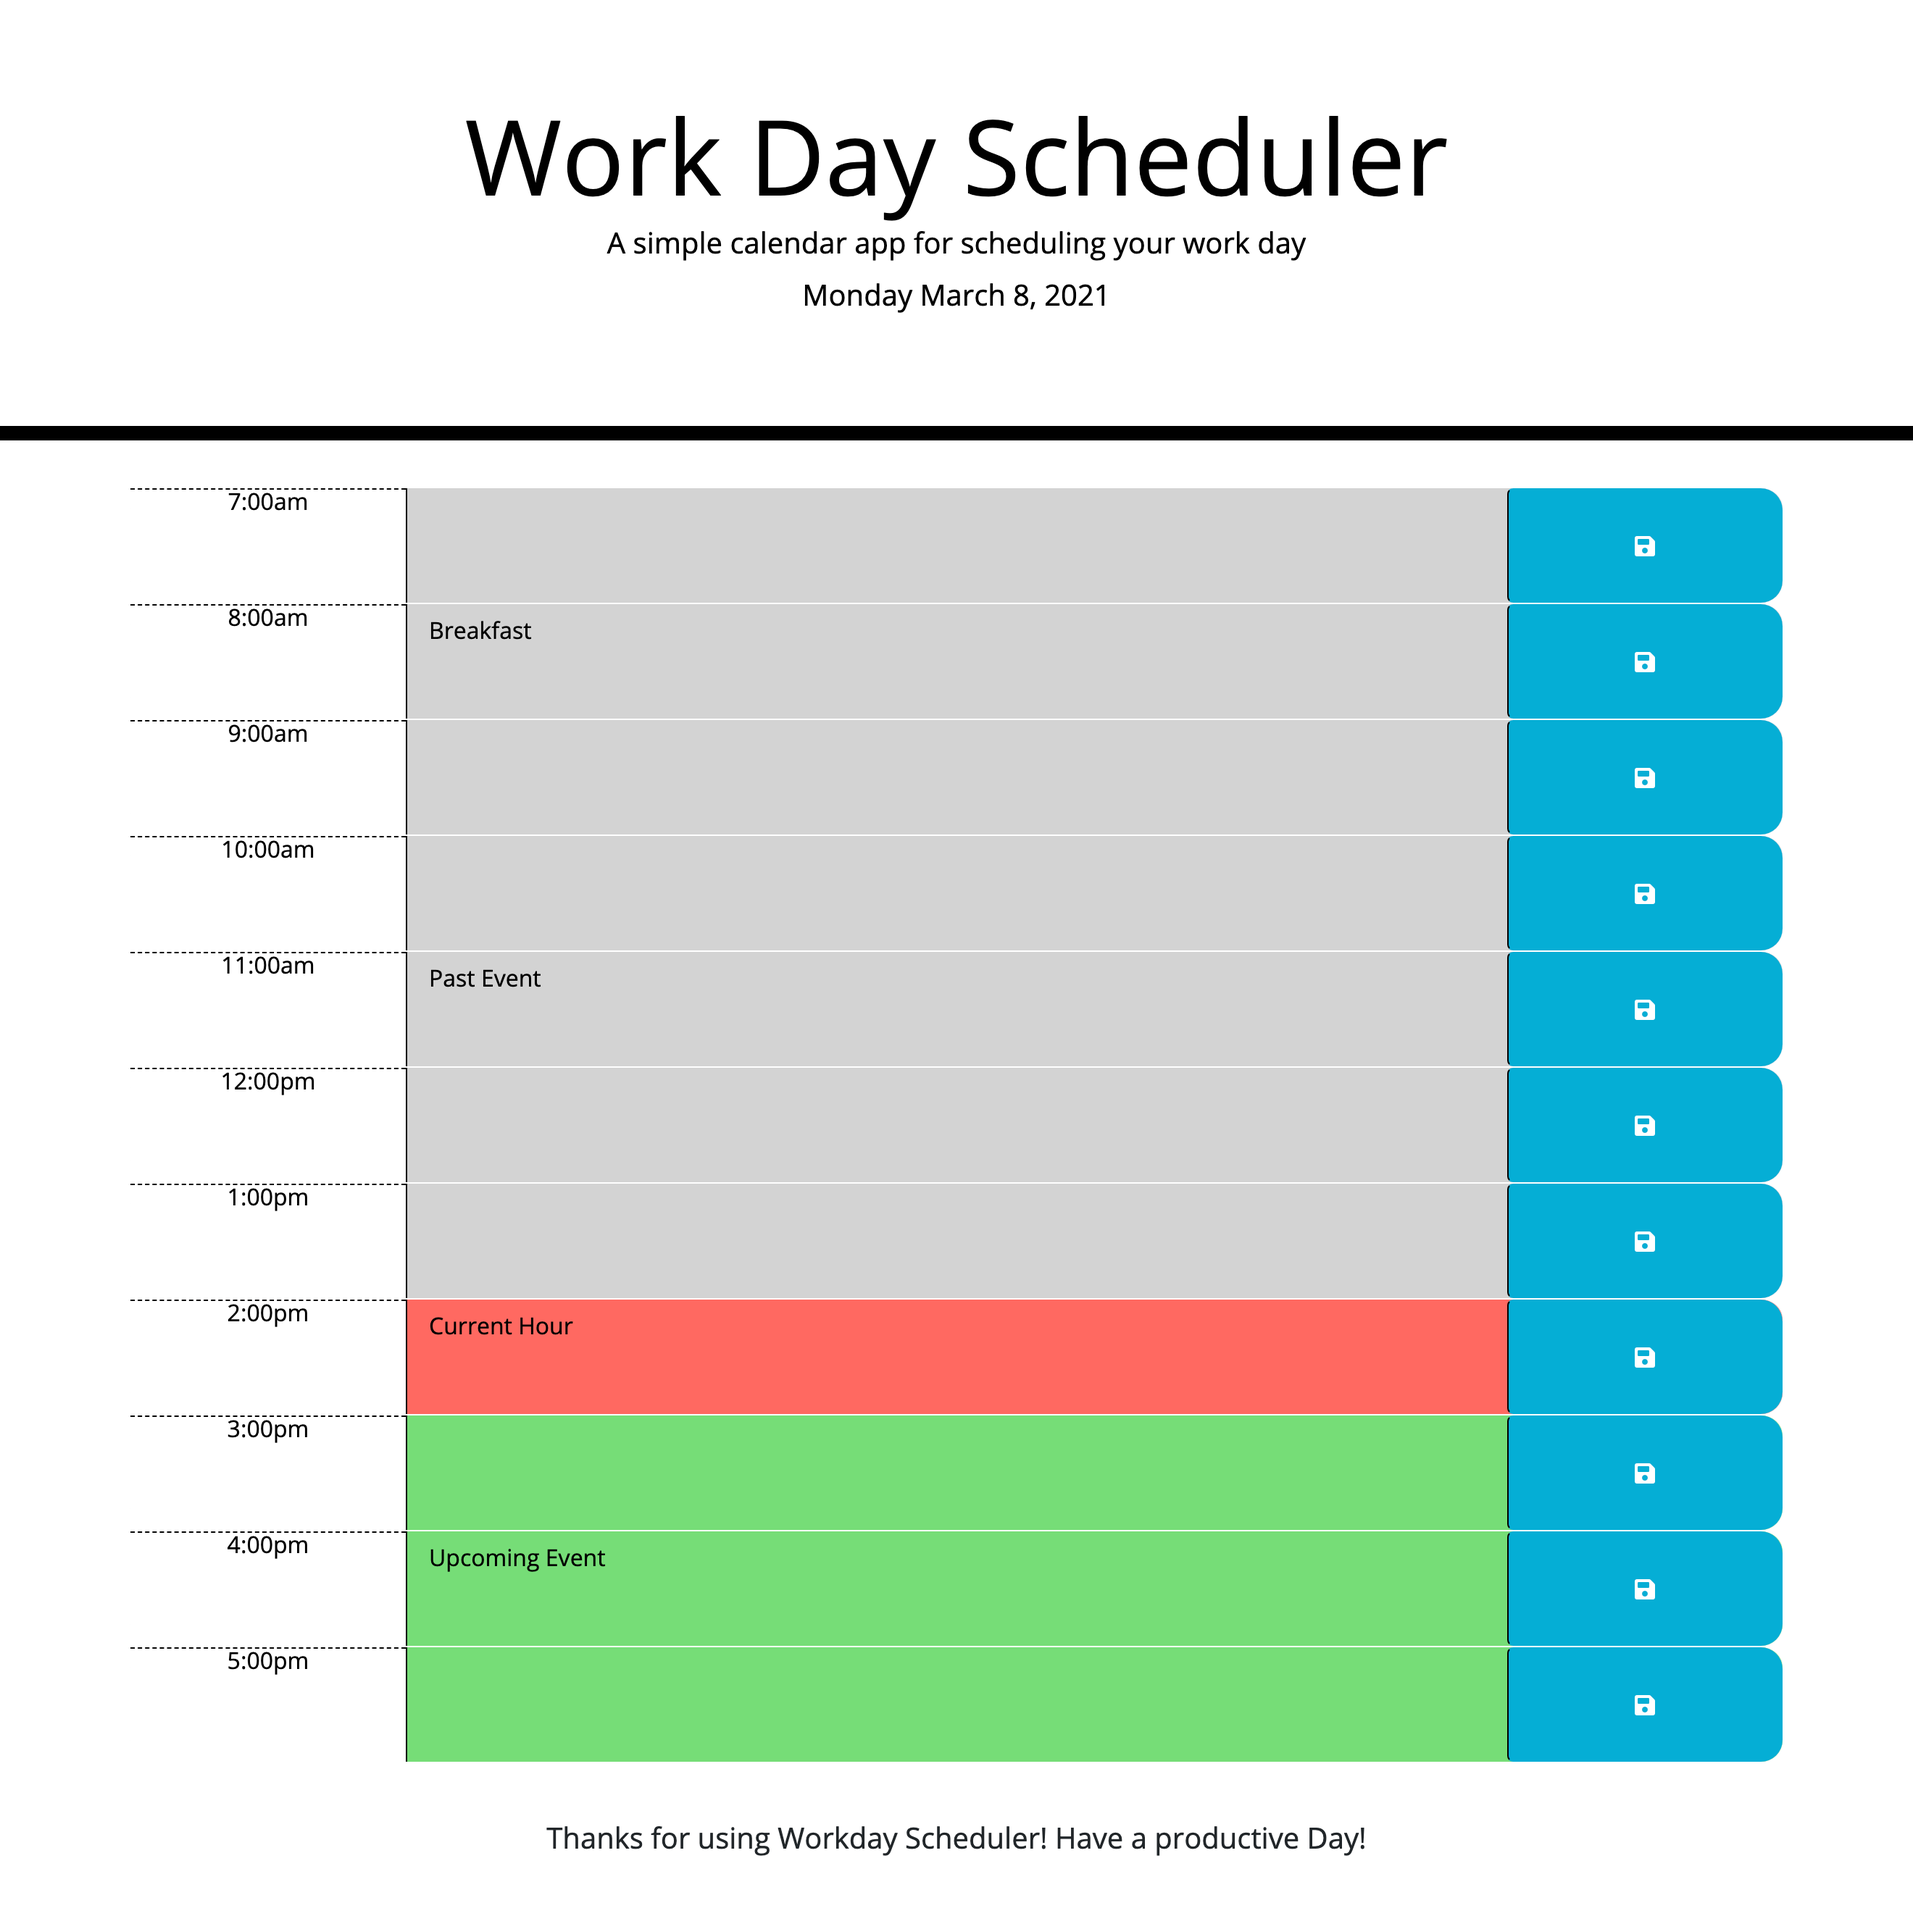
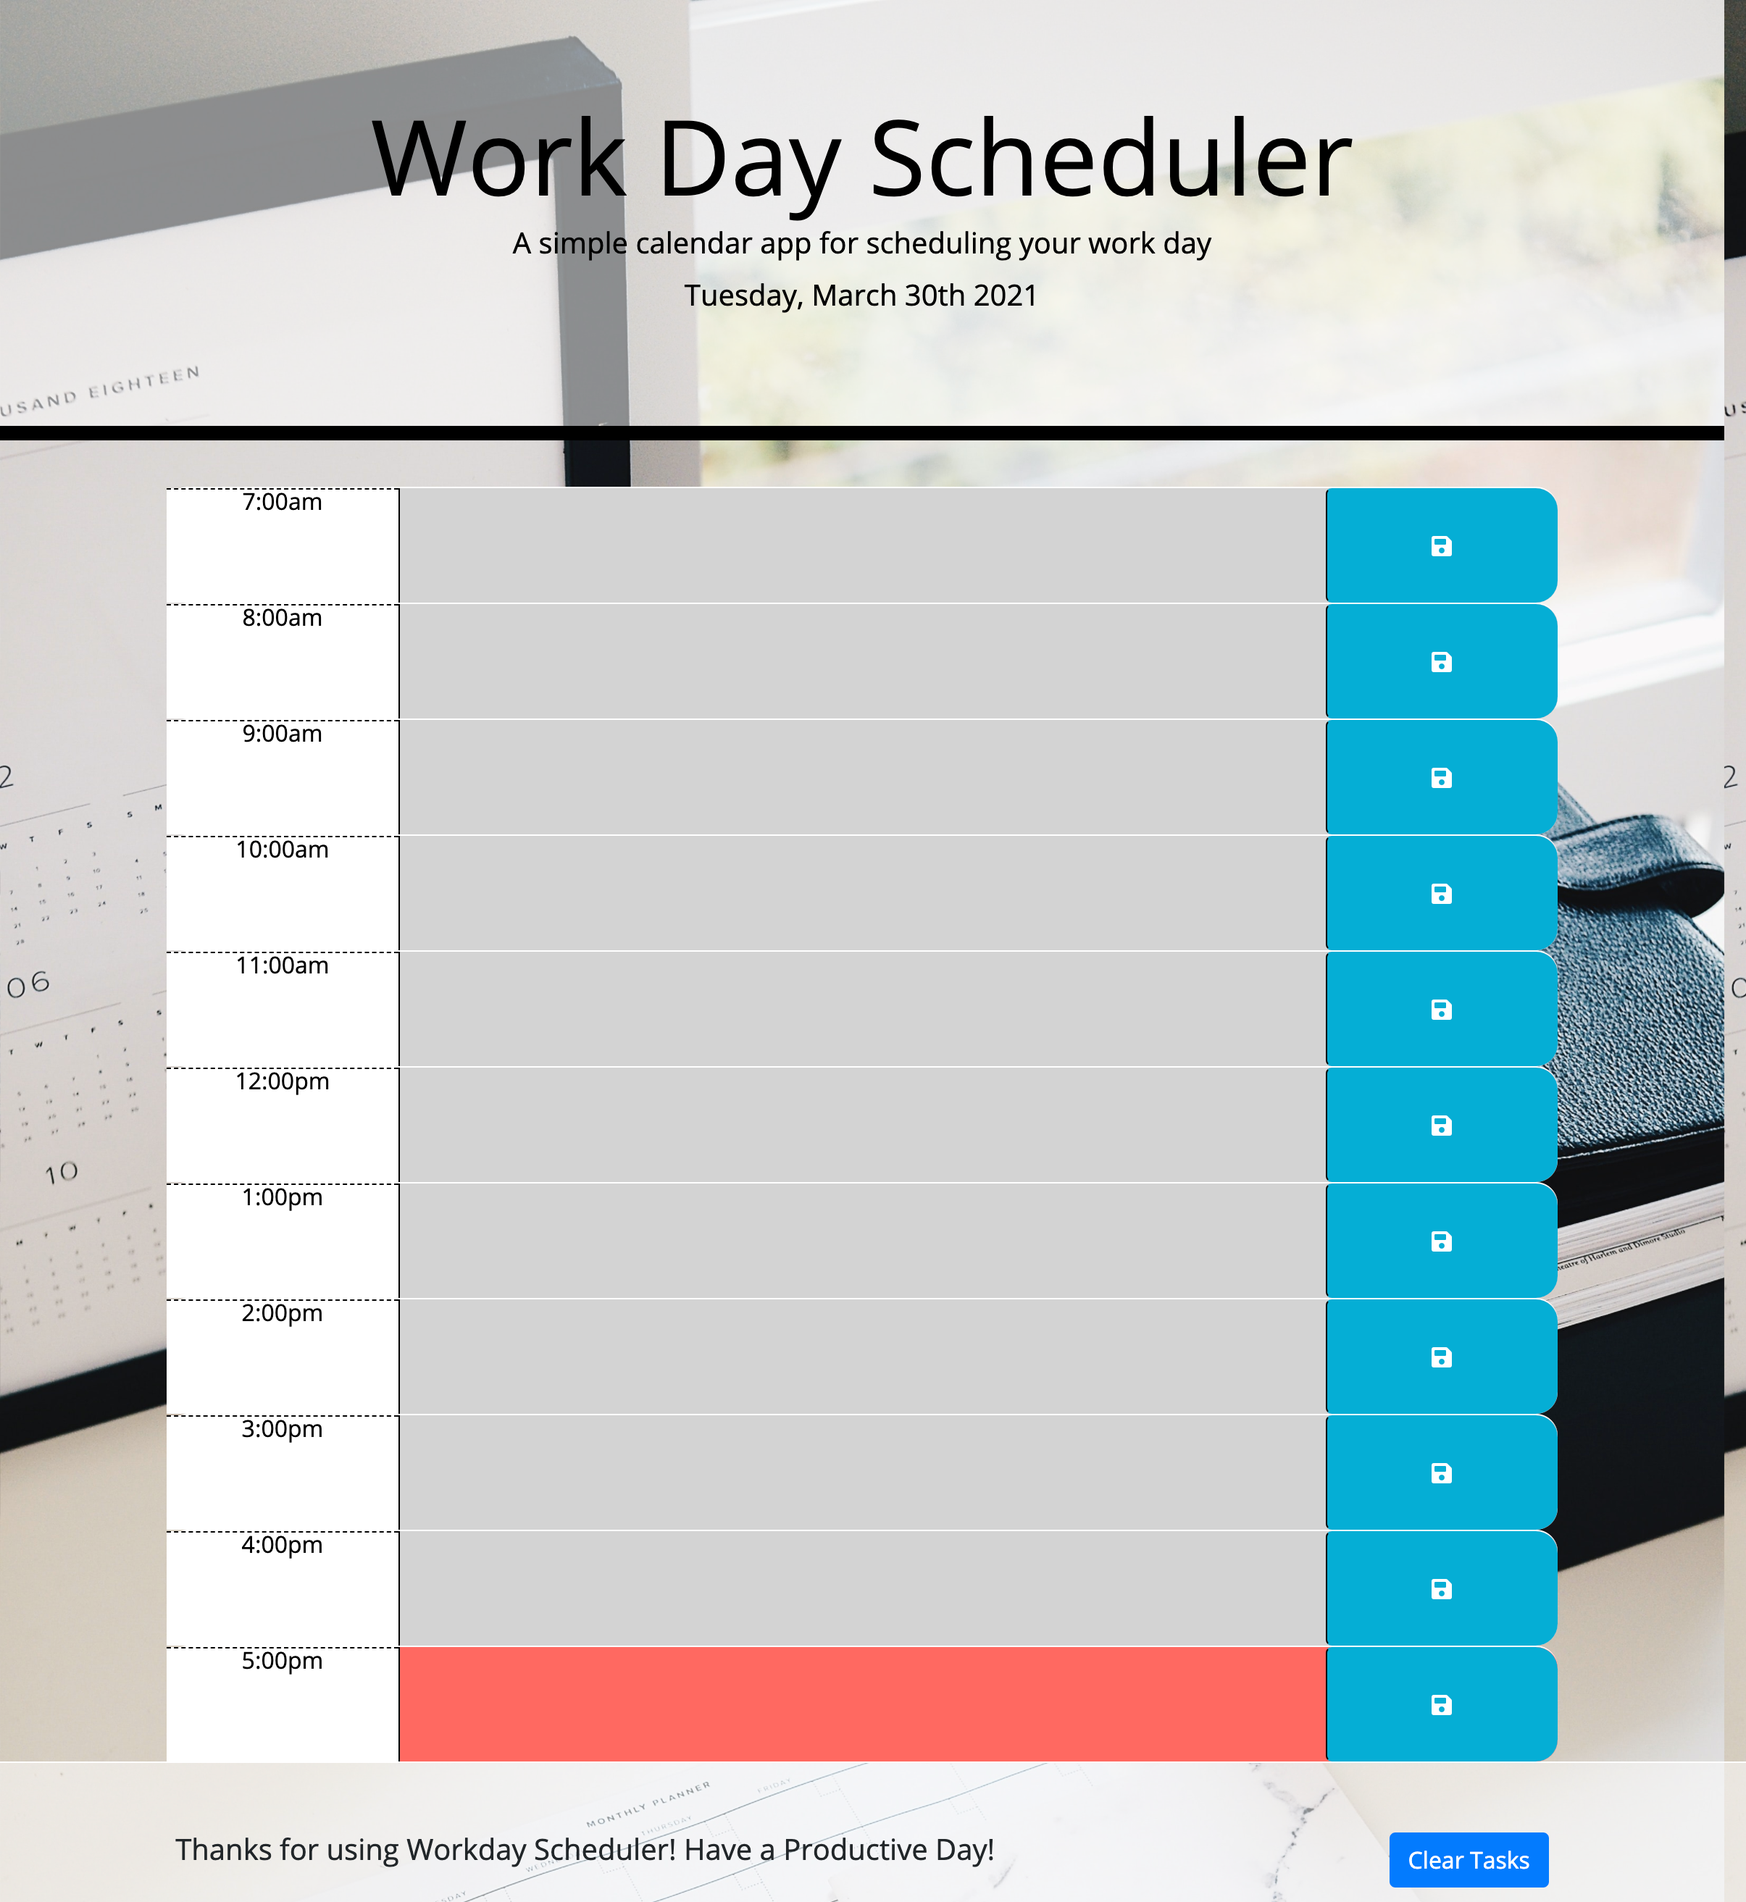
changed background image

diff --git a/assets/css/style.css b/assets/css/style.css
@@ -2,7 +2,9 @@ body {
     font-family: 'Open Sans', sans-serif;
     font-size: 16px;
     line-height: 1;
-  }
+    background: url("../images/stil-zv5QSKaP8G8-unsplash.jpg");
+    background-size: 100%;
+    }
   
   textarea{
     background: transparent;
@@ -19,7 +21,9 @@ body {
     color: black;
     border-radius: 0;
     border-bottom: 10px solid black;
+    background-color: #ffffff84;
   }
+
   
   .description{
     white-space: pre-wrap;
@@ -36,6 +40,10 @@ body {
     border-top: 1px solid white;;
   }
   
+  footer {
+    background-color: #ffffff84;
+  }
+
   .hour {
     background-color: #ffffff;
     color: #000000;

diff --git a/index.html b/index.html
@@ -24,7 +24,7 @@
 
   <body>
     <header class="jumbotron">
-      <h1 class="display-3">Work Day Scheduler</h1>
+      <h1 class="display-3" id="jumbo-heading">Work Day Scheduler</h1>
       <p class="lead">A simple calendar app for scheduling your work day</p>
       <p id="currentDay" class="lead"></p>
     </header>
@@ -101,7 +101,7 @@
 
     </div>
 
-    <footer class="row p-4 m-3">
+    <footer class="row py-5 ">
       <h5 class="mx-auto">Thanks for using Workday Scheduler! Have a Productive Day!</h3>
       <button type="button" class="btn btn-primary clearBtn mx-auto">Clear Tasks</button>
     </footer>
